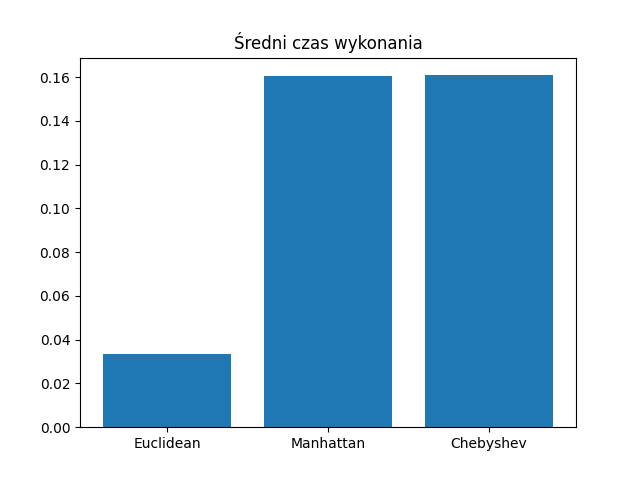
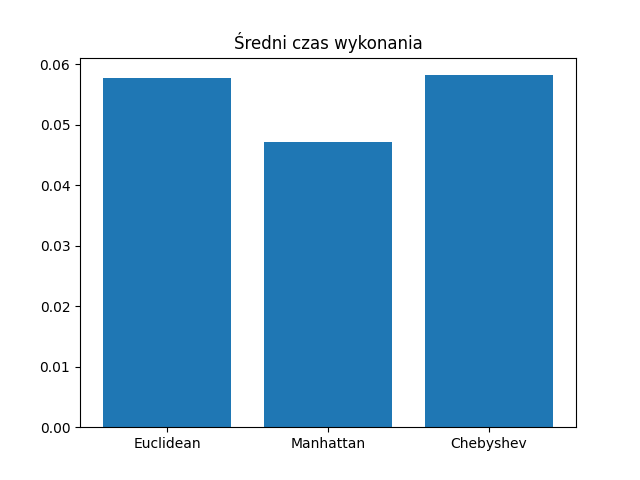
updated result set with a* heuristics comparison

diff --git a/statistics.py b/statistics.py
@@ -8,11 +8,11 @@ from heuristics import euclidean_distance, manhattan_distance, chebyshev_distanc
 import codecs
 
 
-# def random_time():
-#     hour = random.randint(0, 28)
-#     minute = random.randint(0, 59)
-#     return f"{hour}:{minute}:00"
-#
+def random_time():
+    hour = random.randint(0, 28)
+    minute = random.randint(0, 59)
+    return f"{hour}:{minute}:00"
+
 #
 # def compare_dijkstra_astar_time():
 #     df = retrieve_data("connection_graph_unique.csv")
@@ -40,39 +40,39 @@ import codecs
 #             path, cost, time = result
 #             f.write(f"{len(path)},{cost},{time}\n")
 #
-# def compare_astar_heuristics_time():
-#     df = retrieve_data("connection_graph_unique.csv")
-#     graph = model_graph(df)
-#     vertices = list(graph.get_vertices().keys())
-#     euclidean_results = []
-#     manhattan_results = []
-#     chebyshev_results = []
-#
-#     while len(euclidean_results) < 750:
-#         v1 = random.choice(vertices).name
-#         v2 = random.choice(vertices).name
-#         while v2 == v1:
-#             v2 = random.choice(vertices).name
-#         r_time = random_time()
-#         euclidean_result = astar(graph, v1, v2, r_time, euclidean_distance, 't')
-#         manhattan_result = astar(graph, v1, v2, r_time, manhattan_distance, 't')
-#         chebyshev_result = astar(graph, v1, v2, r_time, chebyshev_distance, 't')
-#         if euclidean_result is not None:
-#             euclidean_results.append(euclidean_result)
-#             manhattan_results.append(manhattan_result)
-#             chebyshev_results.append(chebyshev_result)
-#     with codecs.open("./statistics_results/astar_heuristic_comparison/euclidean.csv", "w", "utf-8") as f:
-#         for result in euclidean_results:
-#             path, cost, time = result
-#             f.write(f"{len(path)},{cost},{time}\n")
-#     with codecs.open("./statistics_results/astar_heuristic_comparison/manhattan.csv", "w", "utf-8") as f:
-#         for result in manhattan_results:
-#             path, cost, time = result
-#             f.write(f"{len(path)},{cost},{time}\n")
-#     with codecs.open("statistics_results/astar_heuristic_comparison/chebyshev.csv", "w", "utf-8") as f:
-#         for result in chebyshev_results:
-#             path, cost, time = result
-#             f.write(f"{len(path)},{cost},{time}\n")
+def compare_astar_heuristics_time():
+    df = retrieve_data("connection_graph_unique.csv")
+    graph = model_graph(df)
+    vertices = list(graph.get_vertices().keys())
+    euclidean_results = []
+    manhattan_results = []
+    chebyshev_results = []
+
+    while len(euclidean_results) < 750:
+        v1 = random.choice(vertices).name
+        v2 = random.choice(vertices).name
+        while v2 == v1:
+            v2 = random.choice(vertices).name
+        r_time = random_time()
+        euclidean_result = astar(graph, v1, v2, r_time, euclidean_distance, 't')
+        manhattan_result = astar(graph, v1, v2, r_time, manhattan_distance, 't')
+        chebyshev_result = astar(graph, v1, v2, r_time, chebyshev_distance, 't')
+        if euclidean_result is not None:
+            euclidean_results.append(euclidean_result)
+            manhattan_results.append(manhattan_result)
+            chebyshev_results.append(chebyshev_result)
+    with codecs.open("./statistics_results/astar_heuristic_comparison/euclidean.csv", "w", "utf-8") as f:
+        for result in euclidean_results:
+            path, cost, time = result
+            f.write(f"{len(path)},{cost},{time}\n")
+    with codecs.open("./statistics_results/astar_heuristic_comparison/manhattan.csv", "w", "utf-8") as f:
+        for result in manhattan_results:
+            path, cost, time = result
+            f.write(f"{len(path)},{cost},{time}\n")
+    with codecs.open("statistics_results/astar_heuristic_comparison/chebyshev.csv", "w", "utf-8") as f:
+        for result in chebyshev_results:
+            path, cost, time = result
+            f.write(f"{len(path)},{cost},{time}\n")
 #
 #
 # def compare_astar_change_value_scalar():
@@ -104,4 +104,6 @@ import codecs
 #
 #
 # compare_astar_change_value_scalar()
+
+compare_astar_heuristics_time()
 

diff --git a/statistics_interpreter.py b/statistics_interpreter.py
@@ -20,14 +20,14 @@ def interpret_heuristics_comparison():
         comp_time_mean.append(df.loc[:, 'comp_time'].mean())
 
     x = np.array(["Euclidean", "Manhattan", "Chebyshev"])
-    y = np.array(p_len_mean)
-    plt.title("Średnia długość ścieżki")
-    plt.bar(x, y)
-    plt.savefig("./plots/heuristic_comparison/mean_path_len.png")
-    y = np.array(cost_mean)
-    plt.title("Średni koszt ścieżki")
-    plt.bar(x, y)
-    plt.savefig("./plots/heuristic_comparison/mean_path_cost.png")
+    # y = np.array(p_len_mean)
+    # plt.title("Średnia długość ścieżki")
+    # plt.bar(x, y)
+    # plt.savefig("./plots/heuristic_comparison/mean_path_len.png")
+    # y = np.array(cost_mean)
+    # plt.title("Średni koszt ścieżki")
+    # plt.bar(x, y)
+    # plt.savefig("./plots/heuristic_comparison/mean_path_cost.png")
     y = np.array(comp_time_mean)
     plt.title("Średni czas wykonania")
     plt.bar(x, y)
@@ -96,4 +96,6 @@ def interpret_ch_cost():
     plt.legend()
     plt.savefig("./plots/change_cost/both_time_plot.png")
 
-interpret_ch_cost()
+
+interpret_heuristics_comparison()
+

diff --git a/heuristics.py b/heuristics.py
@@ -1,8 +1,6 @@
 import math
 
 
-# najlepsza heurystyka dla wymiaru o nieskonczonej liczbie kierunkow (wspolrzedne geograficzne)
-# no, o ile przestrzen jest ciagla ;) (potwierdzone statystykami i wykresami)
 def euclidean_distance(node, destination):
     n_lat, d_lat, n_lon, d_lon = node.latitude, destination.latitude, node.longitude, destination.longitude
     value = math.sqrt(math.pow(n_lat - d_lat, 2) + math.pow(n_lon - d_lon, 2))*1000
@@ -11,11 +9,11 @@ def euclidean_distance(node, destination):
 
 def manhattan_distance(node, destination):
     n_lat, d_lat, n_lon, d_lon = node.latitude, destination.latitude, node.longitude, destination.longitude
-    value = abs(n_lat - d_lat) + abs(n_lon - d_lon)
+    value = (abs(n_lat - d_lat) + abs(n_lon - d_lon))*1000
     return value
 
 
 def chebyshev_distance(node, destination):
     n_lat, d_lat, n_lon, d_lon = node.latitude, destination.latitude, node.longitude, destination.longitude
-    value = max(abs(n_lat - d_lat), abs(n_lon - d_lon))
+    value = (max(abs(n_lat - d_lat), abs(n_lon - d_lon)))*1000
     return value

diff --git a/test.py b/test.py
@@ -18,10 +18,16 @@ test_entries = [
     ("most Grunwaldzki", "Krasińskiego", "10:16:00"),
     ("Bajana", "Smolec - Wrocławska", "21:03:00"),
     ("Krępicka", "Kadłub wieś", "29:58:00"),
-    ("KOSZAROWA (Szpital)", "Brzezia Łąka - cmentarz", "11:38:00"),
+    ("KOSZAROWA (Szpital)", "Brzezia Łąka - cmentarz", "11:38:00") , #p-
     ("RĘDZIŃSKA", "TARNOGAJ", "25:38:00"),
     ("Muchobór Wielki", "Wysoka - Lipowa", "27:14:00"),
-    ("Zabrodzie - pętla", "Wiślańska", "19:52:00"),
-    ("Maślicka (Osiedle)", "Iwiny - Kolejowa", "16:07:00"),
-    ("Małkowice - Główna", "Kiełczów - Zgodna", "10:39:00")
+    ("Zabrodzie - pętla", "Wiślańska", "19:52:00"), #p~
+    ("Maślicka (Osiedle)", "Iwiny - Kolejowa", "16:07:00"), #p+
+    ("Małkowice - Główna", "Kiełczów - Zgodna", "10:39:00")  #p~
 ]
+
+
+
+
+
+
